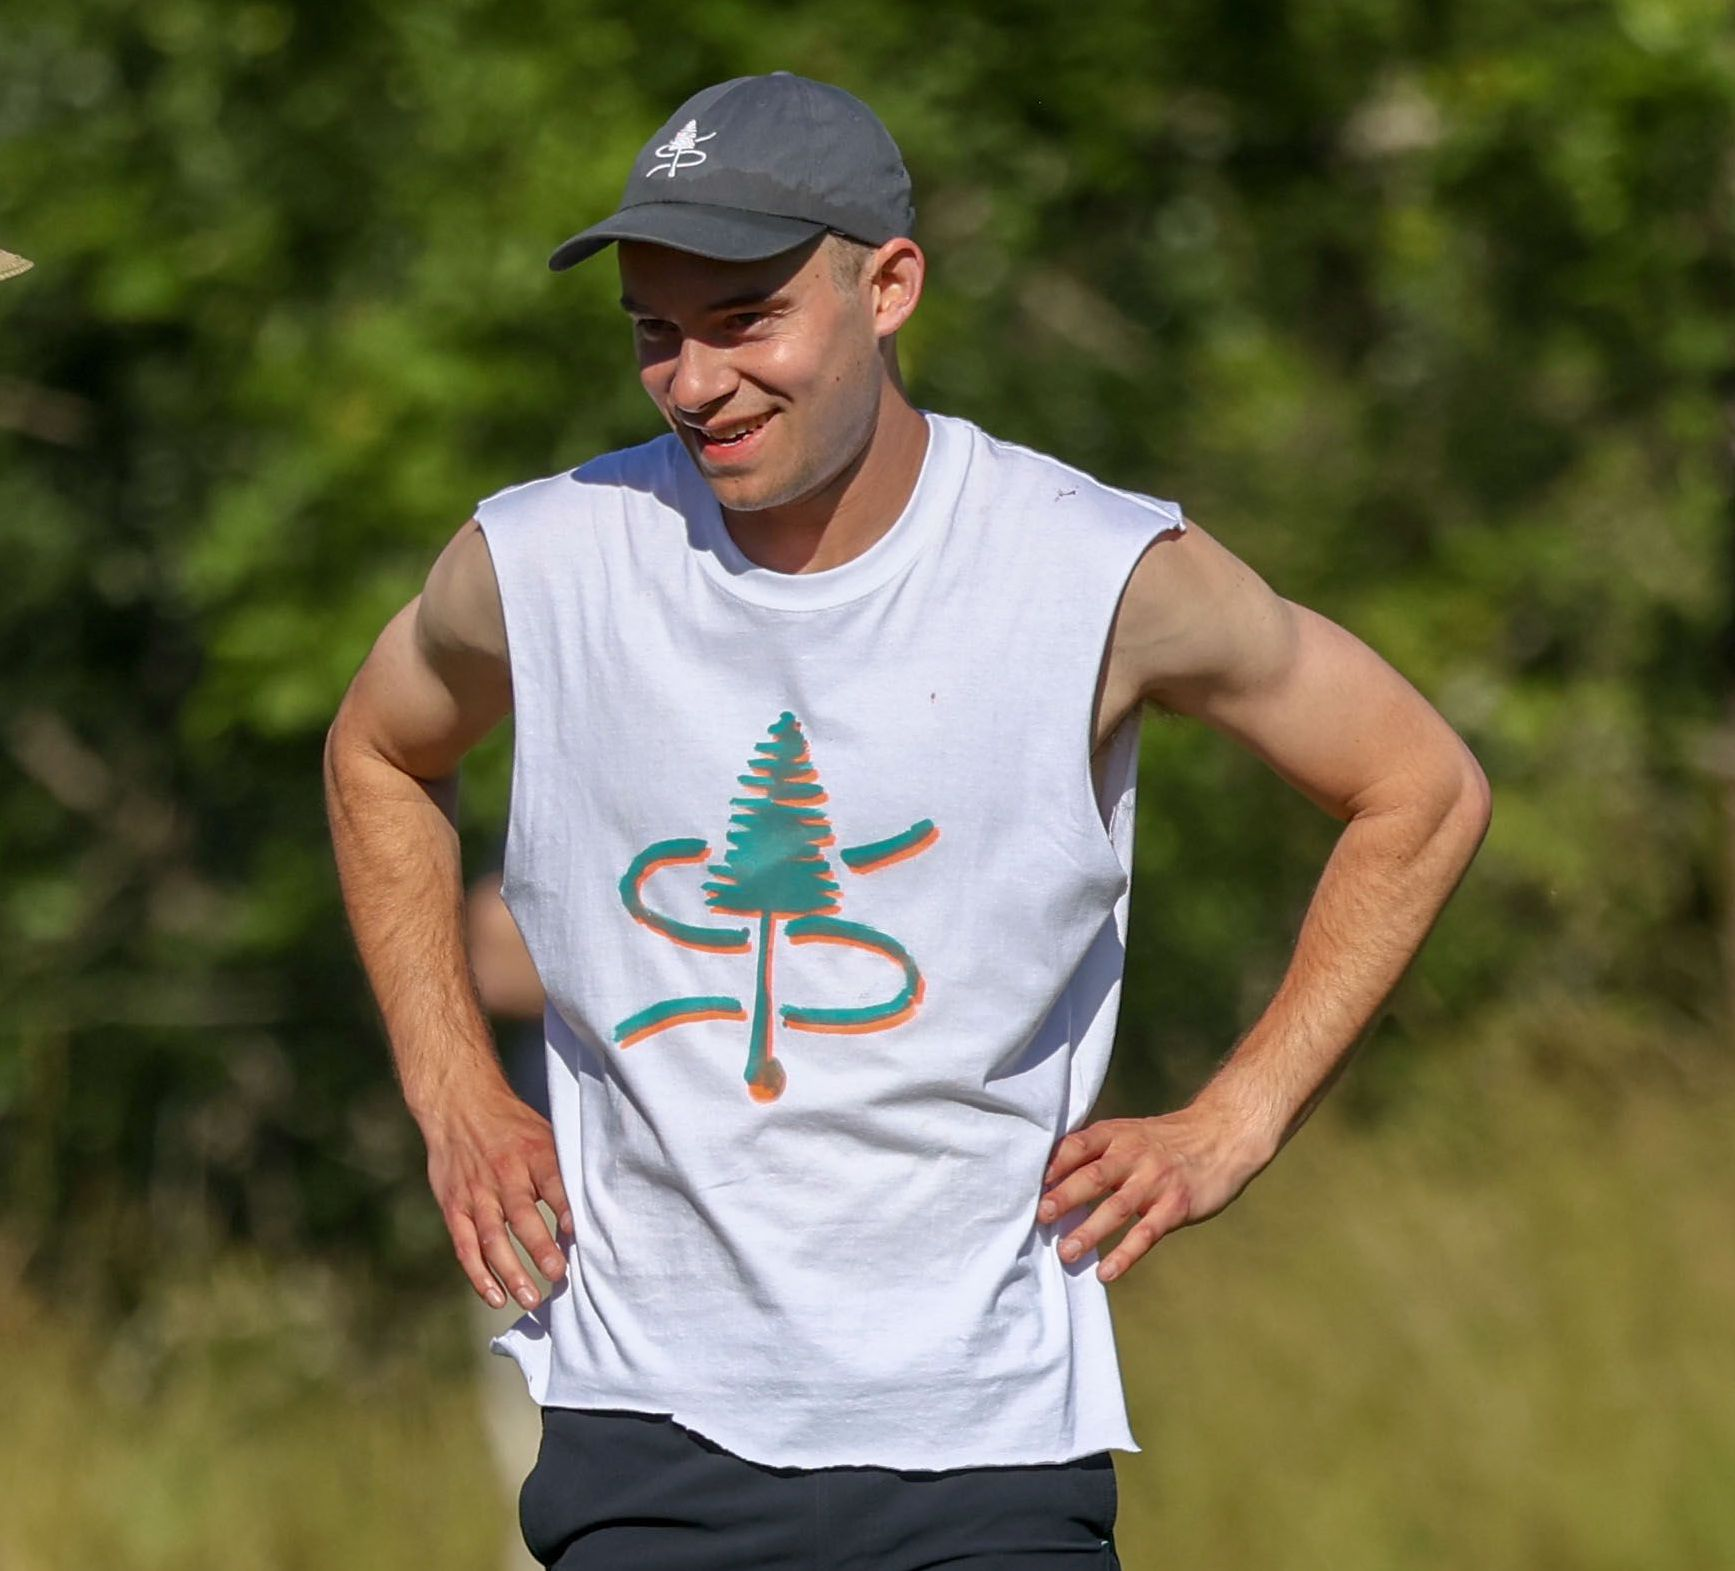
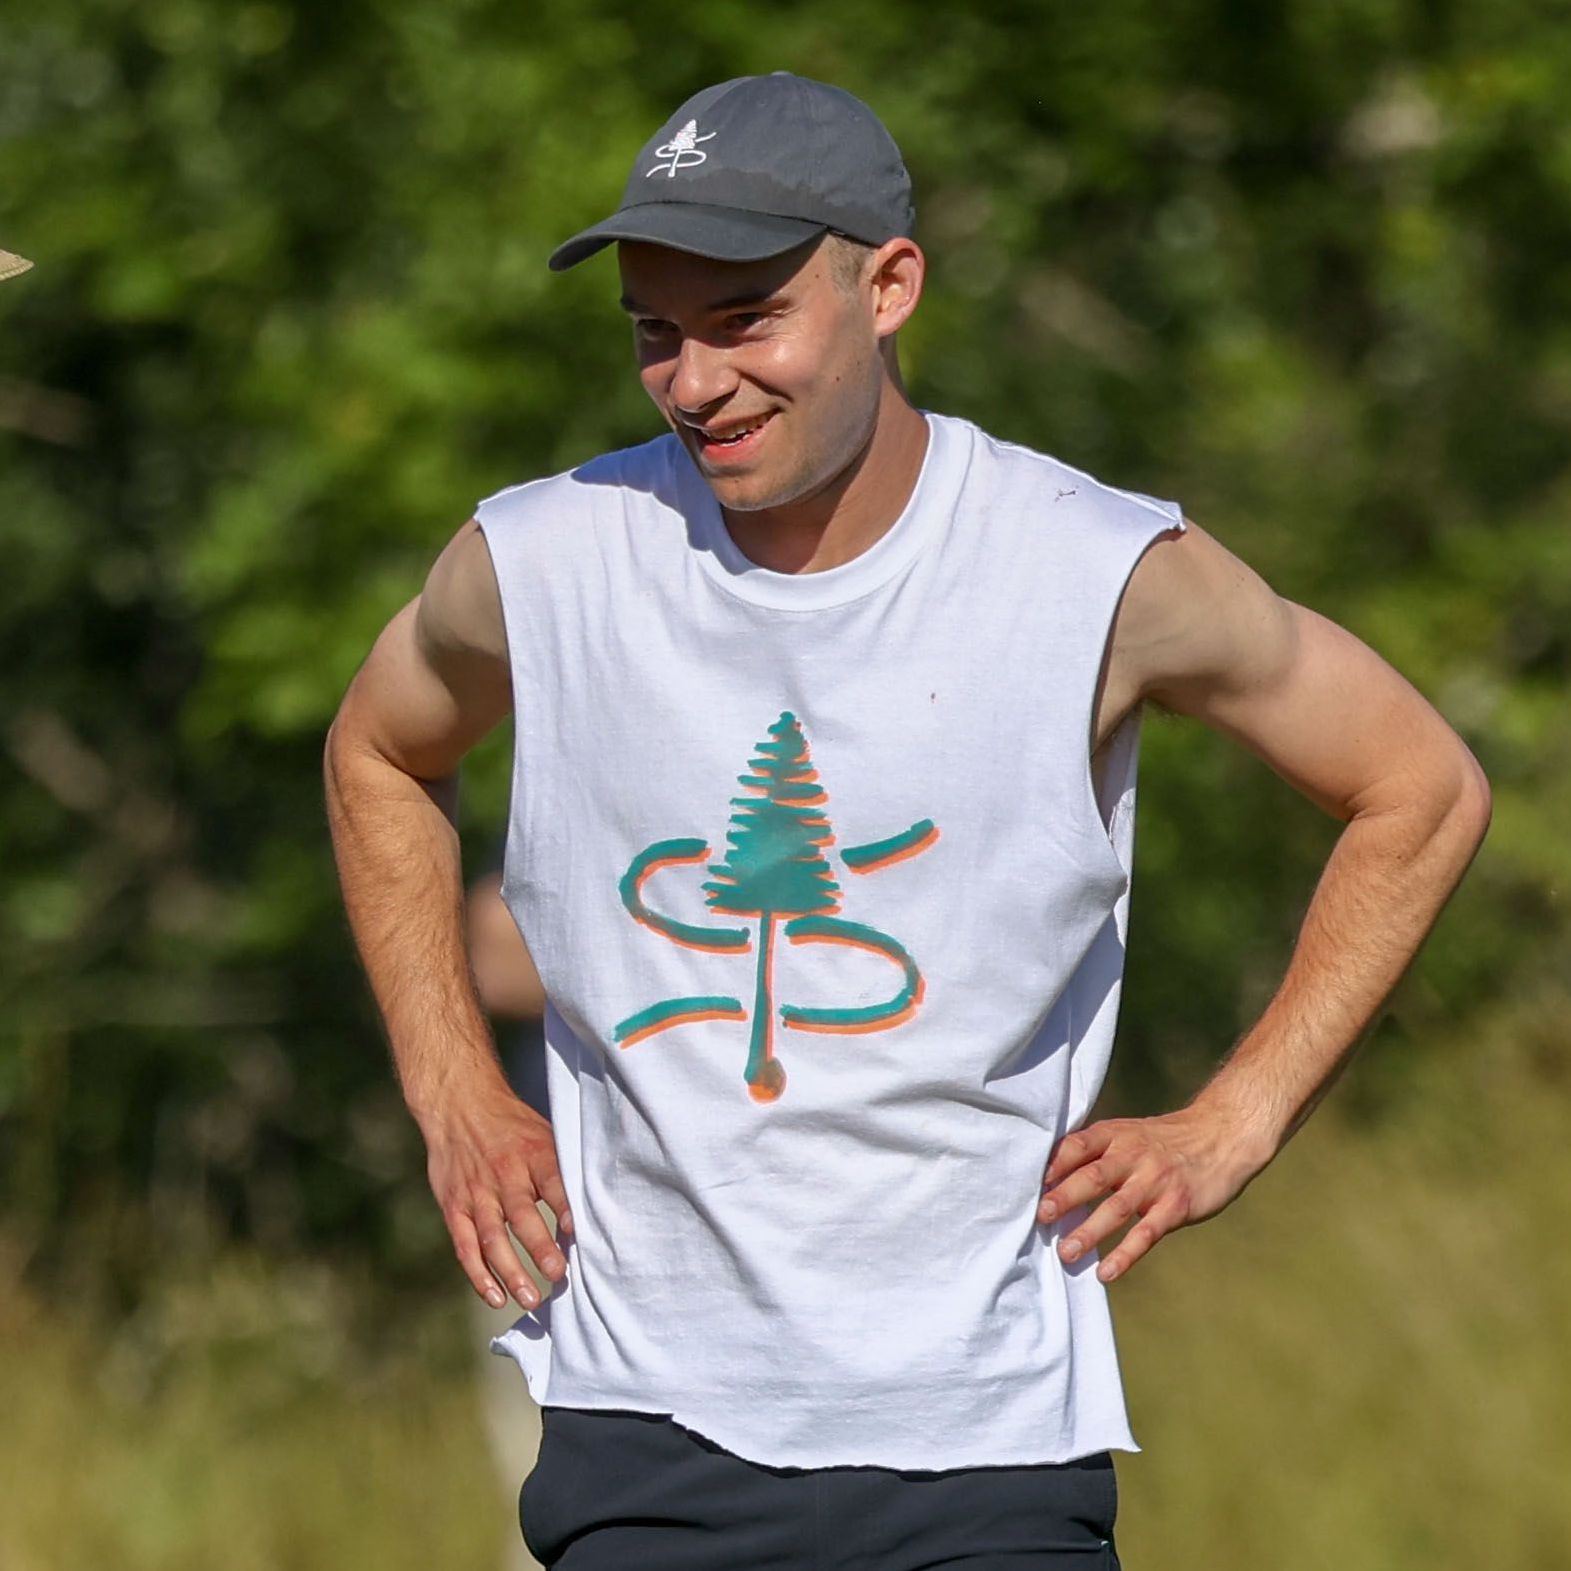
Tweak css for images

diff --git a/static/css/switchback.css b/static/css/switchback.css
@@ -6,4 +6,6 @@ img.roster-image {
   object-fit: cover;
   aspect-ratio: 1/1;
   border-radius: 50%;
+  width: 100%;
+  height: auto;
 }
